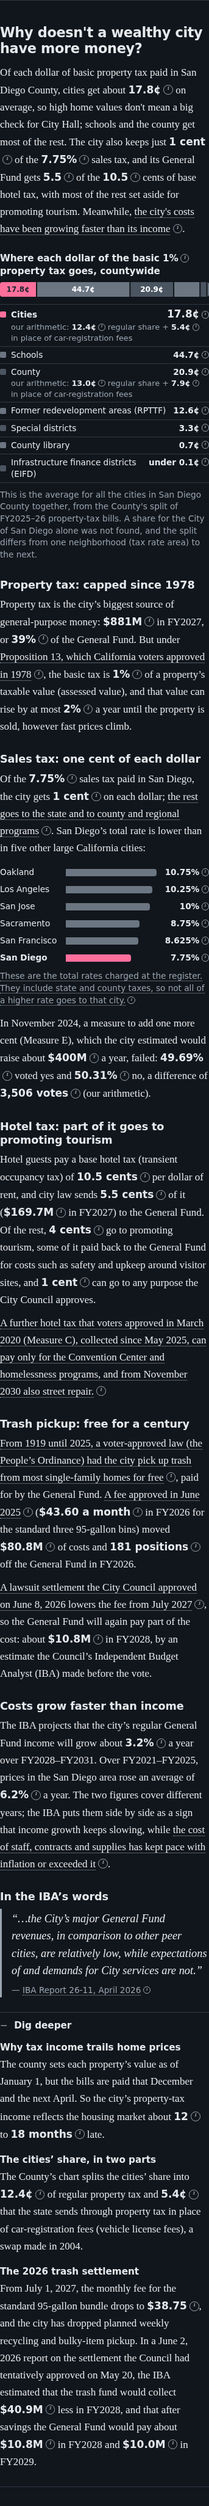
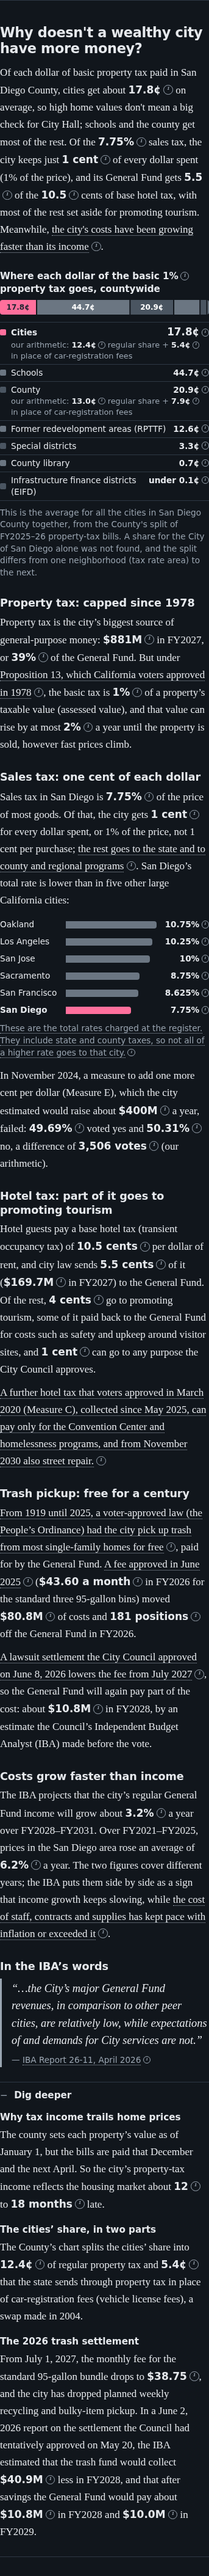
copy(site): say the city's sales tax cent is per dollar spent, not per purchase

Changed region(s): [[0.0, 0.0, 1.0, 0.9981]]

diff --git a/site/index.html b/site/index.html
@@ -51,7 +51,7 @@
 
   <section id="why-short" class="chapter" aria-labelledby="why-short-h">
     <h2 id="why-short-h">Why doesn't a wealthy city have more money?</h2>
-    <p class="lead">Of each dollar of basic property tax paid in San Diego County, cities get about <span data-why-fig="property_dollar.cities_cents">18¢</span> on average, so high home values don't mean a big check for City Hall; schools and the county get most of the rest. The city also keeps just <span data-why-fig="sales_tax.city_cents_of_rate">1 cent</span> of the <span data-why-fig="sales_tax.sd_rate_pct">7.75%</span> sales tax, and its General Fund gets <span data-why-fig="hotel.gf_cents">5.5</span> of the <span data-why-fig="hotel.base_cents">10.5</span> cents of base hotel tax, with most of the rest set aside for promoting tourism. Meanwhile, <span class="cite" data-src-doc="IBA Report 26-11, Review of the FY 2027 Proposed Budget, Key Citywide Issues: Structural Budget Deficit" data-src-page="77" data-src-url="https://www.sandiego.gov/sites/default/files/2026-04/iba-report-26-11-review-of-the-fiscal-year-2027-proposed-budget_0.pdf">the city's costs have been growing faster than its income</span>.</p>
+    <p class="lead">Of each dollar of basic property tax paid in San Diego County, cities get about <span data-why-fig="property_dollar.cities_cents">18¢</span> on average, so high home values don't mean a big check for City Hall; schools and the county get most of the rest. Of the <span data-why-fig="sales_tax.sd_rate_pct">7.75%</span> sales tax, the city keeps just <span data-why-fig="sales_tax.city_cents_of_rate">1 cent</span> of every dollar spent (1% of the price), and its General Fund gets <span data-why-fig="hotel.gf_cents">5.5</span> of the <span data-why-fig="hotel.base_cents">10.5</span> cents of base hotel tax, with most of the rest set aside for promoting tourism. Meanwhile, <span class="cite" data-src-doc="IBA Report 26-11, Review of the FY 2027 Proposed Budget, Key Citywide Issues: Structural Budget Deficit" data-src-page="77" data-src-url="https://www.sandiego.gov/sites/default/files/2026-04/iba-report-26-11-review-of-the-fiscal-year-2027-proposed-budget_0.pdf">the city's costs have been growing faster than its income</span>.</p>
     <figure class="chart" id="s2-cents"></figure>
     <figure class="chart" id="s2-blocks"></figure>
     <details class="dig"><summary>Dig deeper</summary>

diff --git a/site/why.js b/site/why.js
@@ -47,13 +47,13 @@ export function blocks(d) {
         fig(p13.rate_pct, pctText(p13.rate_pct.value)), ' of a property’s taxable value (assessed value), and that value can rise by at most ',
         fig(p13.cap_pct, pctText(p13.cap_pct.value)), ' a year until the property is sold, however fast prices climb.']),
     h('section', 'why-block', h('h3', null, 'Sales tax: one cent of each dollar'),
-      h('p', null, 'Of the ', fig(st.sd_rate_pct, pctText(st.sd_rate_pct.value)), ' sales tax paid in San Diego, the city gets ',
-        fig(st.city_cents_of_rate, centsWord(st.city_cents_of_rate.value)), ' on each dollar; ',
+      h('p', null, 'Sales tax in San Diego is ', fig(st.sd_rate_pct, pctText(st.sd_rate_pct.value)), ' of the price of most goods. Of that, the city gets ',
+        fig(st.city_cents_of_rate, centsWord(st.city_cents_of_rate.value)), ' for every dollar spent, or 1% of the price, not 1 cent per purchase; ',
         cite(c.sales_split, 'the rest goes to the state and to county and regional programs'),
         '. San Diego’s total rate is lower than in five other large California cities:'),
       rateList(d),
       h('p', 'chart-cap', cite(c.peers_note, 'These are the total rates charged at the register. They include state and county taxes, so not all of a higher rate goes to that city.')),
-      h('p', null, 'In November 2024, a measure to add one more cent (Measure E), which the city estimated would raise about ',
+      h('p', null, 'In November 2024, a measure to add one more cent per dollar (Measure E), which the city estimated would raise about ',
         fig(me.est_annual_m, mText(me.est_annual_m.value)), ' a year, failed: ', fig(me.yes_pct, pctText(me.yes_pct.value)), ' voted yes and ',
         fig(me.no_pct, pctText(me.no_pct.value)), ' no, a difference of ', fig(me.margin_votes, `${votes(me.margin_votes.value)} votes`), '.')),
     block('Hotel tax: part of it goes to promoting tourism',
